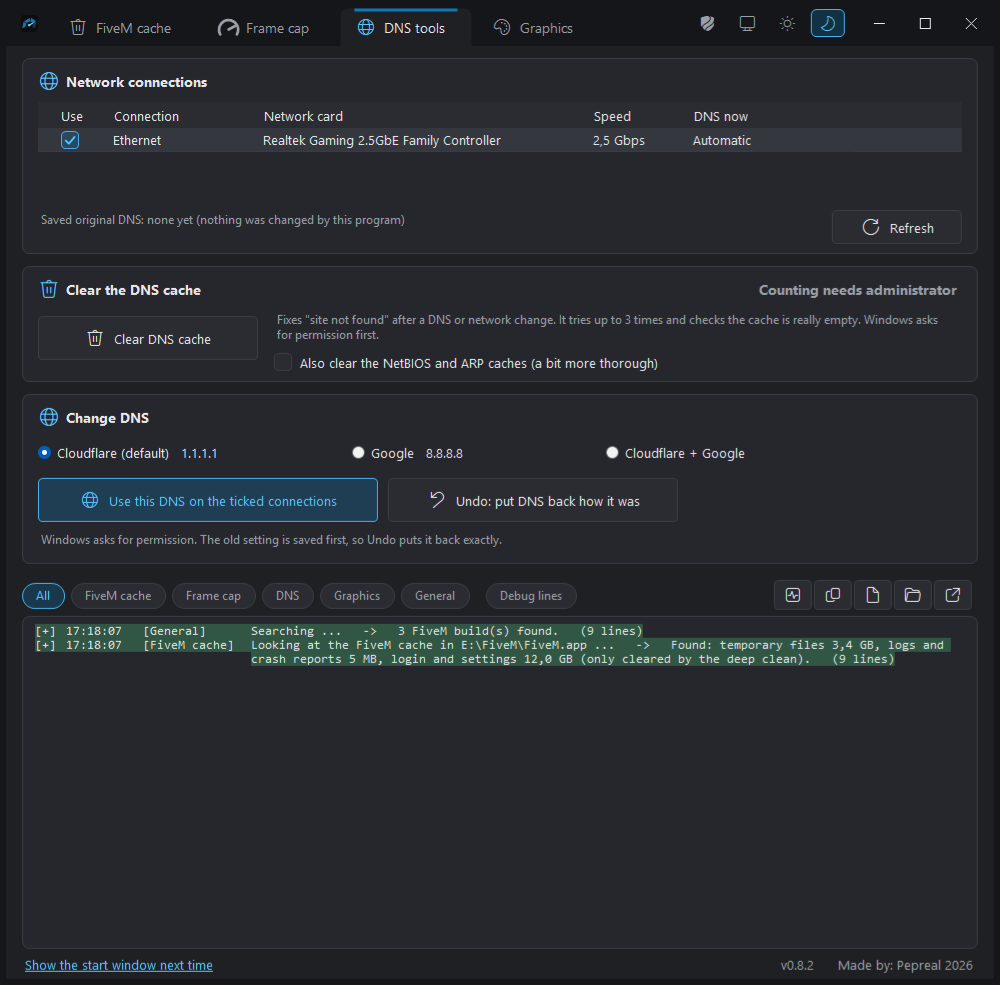
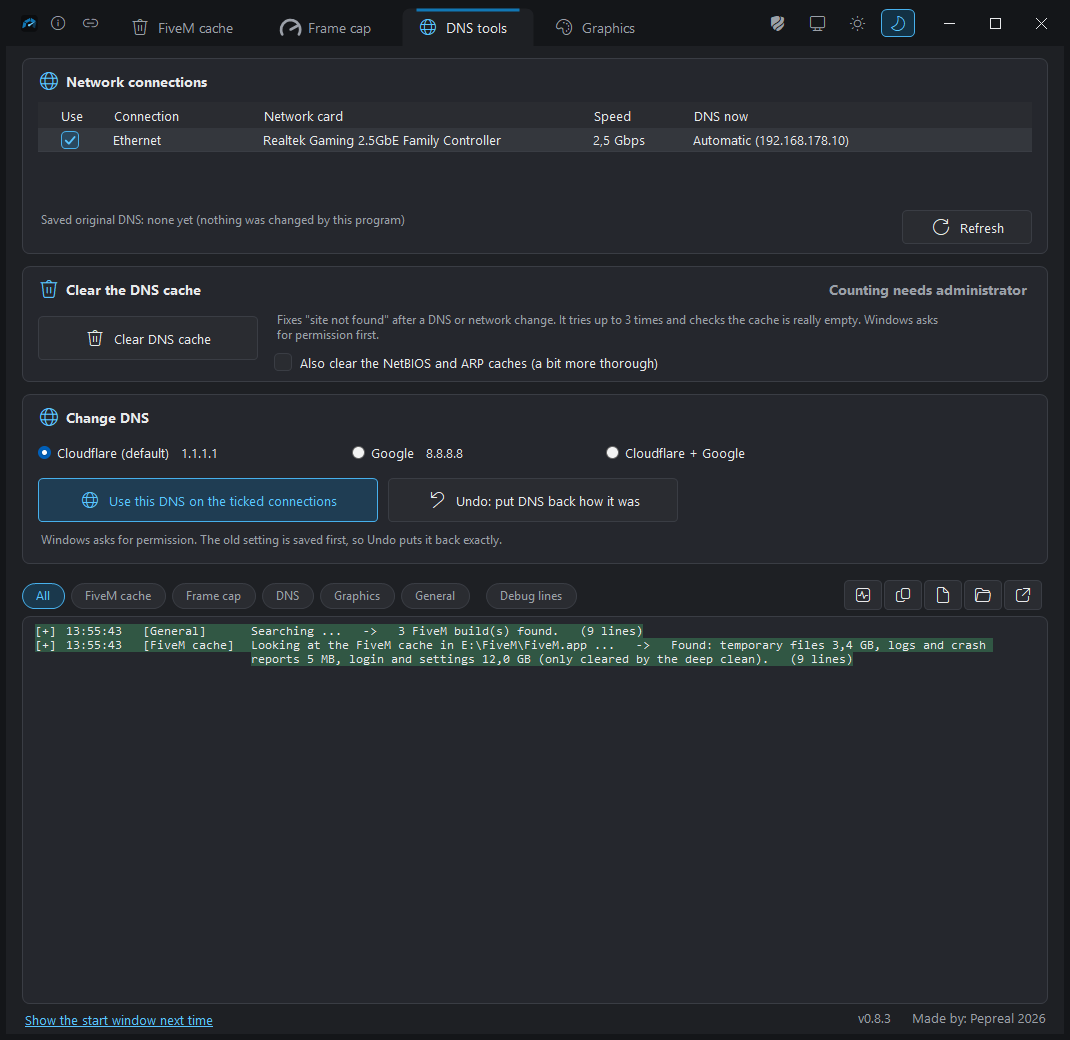
FiveM Toolbox 0.8.3 - title bar buttons, red Reset mode switch, wider window
- Two small buttons next to the program icon: the disclaimer (the welcome window again, only to read) and the GitHub page of the program.
- The "Reset mode" switch is red when it is on.
- The window starts wider (1070 px, never narrower than 1060 px) so the tabs of all five languages fit next to the new buttons.
- Version 0.8.3: also holds the stutter fix warning and the taller window from the commit before.
- README: one sentence about the buttons, four fresh pictures.
- --review-test: 14 more checks (11 planted faults caught).

diff --git a/source/FiveMToolbox.cs b/source/FiveMToolbox.cs
@@ -22,8 +22,8 @@ using Microsoft.Win32;
 [assembly: AssemblyCompany("Pepreal")]
 [assembly: AssemblyCopyright("Copyright (c) 2026 Pepreal. MIT License.")]
 [assembly: AssemblyProduct("FiveM Toolbox")]
-[assembly: AssemblyVersion("0.8.2.0")]
-[assembly: AssemblyFileVersion("0.8.2.0")]
+[assembly: AssemblyVersion("0.8.3.0")]
+[assembly: AssemblyFileVersion("0.8.3.0")]
 [assembly: DefaultDllImportSearchPaths(DllImportSearchPath.System32)]   // every DllImport (AMD, NVIDIA, Windows) loads from the Windows folder only, never from the folder of the exe
 
 namespace FiveMFrameCap
@@ -453,7 +453,7 @@ namespace FiveMFrameCap
             return drawnIcon;
         }
 
-        public const string Version = "0.8.2";
+        public const string Version = "0.8.3";
         public const string AppName = "FiveM Toolbox";
         public const string ExeName = "FiveMToolbox";
         public const string Folder = "FiveMToolbox";
@@ -3185,6 +3185,16 @@ namespace FiveMFrameCap
             border = dark ? Fx.Mix(Fx.Mix(Primary, AccentText, 0.75f), AccentText, hover) : Fx.Mix(Primary, Fx.Mix(Primary, Color.Black, 0.20f), hover);
         }
 
+        // The same outline look in red, for a switch that does something dangerous (the Reset mode switch): a dark red track, a red border, a red knob.
+        public static void DangerOutline(Color behind, float hover, out Color track, out Color border, out Color knob)
+        {
+            bool dark = IsDark;
+            Color lift = dark ? Fx.Mix(Bad, Color.White, 0.25f) : Bad;     // a lighter red for the border and the knob on the dark theme
+            track = Fx.Mix(behind, Bad, (dark ? 0.30f : 0.14f) + hover * (dark ? 0.12f : 0.08f));
+            border = Fx.Mix(lift, dark ? Color.White : Color.Black, hover * 0.15f);
+            knob = dark ? lift : Fx.Mix(Bad, Color.Black, 0.15f);
+        }
+
         public static void TitleBar(Form f)
         {
             try
@@ -5244,6 +5254,7 @@ namespace FiveMFrameCap
     {
         bool on;
         readonly Fader f, hv;
+        public bool Danger = false;     // true: a switch that is on is red, not blue (the Reset mode switch)
         public event EventHandler CheckedChanged;
 
         public ToggleSwitch()
@@ -5280,7 +5291,8 @@ namespace FiveMFrameCap
         {
             Color behind = Parent != null ? Parent.BackColor : Theme.Bg1;
             Color offTrack = Fx.Mix(Theme.Bg4, Theme.Border, 0.5f + 0.3f * hv.Value);
-            Color onFill, onBorder, onKnob; Theme.Outline(behind, hv.Value, false, out onFill, out onBorder, out onKnob);
+            Color onFill, onBorder, onKnob;
+            if (Danger) Theme.DangerOutline(behind, hv.Value, out onFill, out onBorder, out onKnob); else Theme.Outline(behind, hv.Value, false, out onFill, out onBorder, out onKnob);
             track = Fx.Mix(offTrack, onFill, f.Value);
             rim = Fx.Mix(offTrack, onBorder, f.Value);
             knob = Fx.Mix(Theme.Text2, onKnob, f.Value);
@@ -6194,12 +6206,18 @@ namespace FiveMFrameCap
         public string TestCopyText() { return copyLink.Text; }
         public void TestClickCopy() { UpdateCheck.ClickLink(copyLink); }
         public void TestClickUpdate() { UpdateCheck.ClickLink(updateLink); }
+        // for --review-test: the texts of the buttons in the window, and whether the tick box "do not show again" is there
+        public string[] TestButtons() { List<string> r = new List<string>(); foreach (Control c in Body.Controls) if (c is IconButton) r.Add(c.Text); return r.ToArray(); }
+        public bool TestHasDontBox() { return Body.Controls.Contains(dont); }
 
-        public DisclaimerForm() : base(false, false, 40, true)
+        public DisclaimerForm() : this(false) { }
+
+        // infoOnly = opened from the main window to read it again: no tick box, no Quit, one button "Got it", centred on the main window
+        public DisclaimerForm(bool infoOnly) : base(false, false, 40, true)
         {
             Text = Info.AppName;
             Icon = Info.AppIcon();
-            StartPosition = FormStartPosition.CenterScreen;
+            StartPosition = infoOnly ? FormStartPosition.CenterParent : FormStartPosition.CenterScreen;
             Font = new Font("Segoe UI", 9.5f);
             int bodyW = 470;
             Font normal = new Font("Segoe UI", 9f);
@@ -6228,11 +6246,11 @@ namespace FiveMFrameCap
             y = UiUtil.Wrapped(Body, "By continuing you accept these risks. Where it is possible, the old setting is saved or backed up first.", 26, y, bodyW - 52, normal, null, out p2);
             y += 16;
 
-            dont = new ThemedCheckBox(); dont.Text = Loc.T("Do not show this window again"); dont.Left = 26; dont.Top = y; dont.Width = bodyW - 52; dont.Height = 26; Body.Controls.Add(dont); y += 40;
+            dont = new ThemedCheckBox(); dont.Text = Loc.T("Do not show this window again"); dont.Left = 26; dont.Top = y; dont.Width = bodyW - 52; dont.Height = 26; if (!infoOnly) { Body.Controls.Add(dont); y += 40; }
 
-            IconButton ok = new IconButton(); ok.Glyph = Ico.Accept; ok.Text = Loc.T("I understand, continue"); ok.Tag = "primary"; ok.Left = 26; ok.Top = y; ok.Width = 262; ok.Height = 42;
+            IconButton ok = new IconButton(); ok.Glyph = Ico.Accept; ok.Text = Loc.T(infoOnly ? "Got it" : "I understand, continue"); ok.Tag = "primary"; ok.Left = 26; ok.Top = y; ok.Width = infoOnly ? 150 : 262; ok.Height = 42;
             ok.Font = new Font("Segoe UI", 10f, FontStyle.Bold); ok.DialogResult = DialogResult.OK; Body.Controls.Add(ok);
-            IconButton quit = new IconButton(); quit.Glyph = Ico.Cancel; quit.Text = Loc.T("Quit"); quit.Left = 298; quit.Top = y; quit.Width = 120; quit.Height = 42; quit.DialogResult = DialogResult.Cancel; Body.Controls.Add(quit);
+            IconButton quit = new IconButton(); quit.Glyph = Ico.Cancel; quit.Text = Loc.T("Quit"); quit.Left = 298; quit.Top = y; quit.Width = 120; quit.Height = 42; quit.DialogResult = DialogResult.Cancel; if (!infoOnly) Body.Controls.Add(quit);
             y += 42 + 14;
 
             // the copyright line is a link to the page of this program on GitHub
@@ -6246,7 +6264,7 @@ namespace FiveMFrameCap
             Shown += delegate { if (pendingUpdate != null) ShowUpdate(pendingUpdate); };   // the answer came before the window was there
             y += 30;
 
-            AcceptButton = ok; CancelButton = quit;
+            AcceptButton = ok; CancelButton = infoOnly ? (IButtonControl)ok : quit;
             ClientSize = new Size(bodyW + 12, TitleBar.Height + y + 6);
             Theme.Apply(this);
         }
@@ -6399,7 +6417,8 @@ namespace FiveMFrameCap
         NumBox gfxBudget; DropBox gfxPost; Label gfxBudgetNow, gfxPostNow, gfxUiNow, gfxStutterNow, gfxBudgetHint, gfxMeterText; MeterBar gfxMeterBar; bool meterReading; string meterLuid; long meterTotal; VramTracker meterTracker = new VramTracker(); ToggleSwitch gfxUiFix, gfxStutterFix; Label gfxStutterWarn; Card gfxCard, gfxOptCard; IconButton gfxRecommend; int gfxRecN = -1; IconButton gfxApply, gfxClose, gfxHighest, gfxNormal, gfxOpen;
         string cacheMeasuredRoot = null;
         DateTime cacheMeasuredAt = DateTime.MinValue;
-        GlyphButton themeSystem, themeLight, themeDark;
+        GlyphButton themeSystem, themeLight, themeDark, discBtn, gitBtn;
+        Action<DisclaimerForm> disclaimerShow = null;     // a test shows the window itself
         ToolTip tip = new ToolTip();
         Panel pageCap, pageDns, pageCache, pageGfx, footer, statusBar;
         LinkLabel copyLabel;
@@ -6441,6 +6460,8 @@ namespace FiveMFrameCap
         bool readOnlyJob = false;   // the running job only reads (the search): the window may be closed then
         bool inDeepChange = false;
         const int CardW = 950;
+        // the tabs in the title bar start after the language icon and the two small buttons next to it; the window is never narrower than MainMinWidth, so that the tabs of every language end before the buttons on the right
+        public const int TabsLeft = 108, MainMinWidth = 1060, AppearW = 172;
 
         static DataGridView MakeGrid(int left, int top, int width, int height)
         {
@@ -6526,8 +6547,8 @@ namespace FiveMFrameCap
             Text = Info.AppName + " " + Info.Version + (DnsTool.IsAdmin() ? " - " + Loc.T("administrator") : "") + Finder.TestModeText();
             Icon = Info.AppIcon();
             Rectangle wa = Dpi.LogicalWorkArea();
-            Width = Math.Min(1000, wa.Width - 40); Height = Math.Min(1040, wa.Height - 30);
-            MinimumSize = new Size(960, 560);
+            Width = Math.Min(MainMinWidth + 10, wa.Width - 40); Height = Math.Min(1040, wa.Height - 30);
+            MinimumSize = new Size(Math.Min(MainMinWidth, wa.Width), 560);
             StartPosition = FormStartPosition.CenterScreen;
             Font = new Font("Segoe UI", 9.5f);
 
@@ -6535,7 +6556,15 @@ namespace FiveMFrameCap
             ChromeTab[] tabs = new ChromeTab[4];
             tabCap = new ChromeTab("gauge", "Frame cap"); tabDns = new ChromeTab(Ico.Globe, "DNS tools"); tabCache = new ChromeTab(Ico.Delete, "FiveM cache"); tabGfx = new ChromeTab(Ico.Palette, "Graphics");
             tabs[0] = tabCap; tabs[1] = tabDns; tabs[2] = tabCache; tabs[3] = tabGfx;
-            int tx = 46;
+            // next to the program icon (it opens the language menu): the disclaimer, and the GitHub page of the program
+            discBtn = new GlyphButton(Ico.Info); discBtn.Size = new Size(30, 30); discBtn.Left = 38; discBtn.Top = (TitleBar.Height - 30) / 2;
+            discBtn.Click += delegate { ShowDisclaimer(); };
+            tip.SetToolTip(discBtn, Loc.T("Show the disclaimer"));
+            gitBtn = new GlyphButton(Ico.Link); gitBtn.Size = new Size(30, 30); gitBtn.Left = 70; gitBtn.Top = (TitleBar.Height - 30) / 2;
+            gitBtn.Click += delegate { UpdateCheck.Open(UpdateCheck.RepoUrl); };
+            tip.SetToolTip(gitBtn, Loc.T("Open the page of this program on GitHub"));
+            TitleBar.Controls.Add(discBtn); TitleBar.Controls.Add(gitBtn);
+            int tx = TabsLeft;
             foreach (int pick in Info.PageOrder)        // left to right: FiveM cache, Frame cap, DNS tools, Graphics
             {
                 int page = pick;
@@ -6546,7 +6575,7 @@ namespace FiveMFrameCap
             }
 
             // Appearance: three small icons instead of a drop-down
-            Panel appearPanel = new Panel(); appearPanel.Dock = DockStyle.Right; appearPanel.Width = 172; appearPanel.Tag = "frame";
+            Panel appearPanel = new Panel(); appearPanel.Dock = DockStyle.Right; appearPanel.Width = AppearW; appearPanel.Tag = "frame";
             themeSystem = new GlyphButton(Ico.Monitor); themeSystem.Left = 46; themeSystem.Top = 8;
             themeLight = new GlyphButton(Ico.Sun); themeLight.Left = 86; themeLight.Top = 8;
             themeDark = new GlyphButton(Ico.Moon); themeDark.Left = 126; themeDark.Top = 8;
@@ -6583,7 +6612,7 @@ namespace FiveMFrameCap
             logPanel.ReportCopied += delegate { activity.Finish("ok", Loc.T("Report copied"), Loc.T("The whole log is on your clipboard. Paste it in a message. It has file paths and your PC's name in it.")); };
             footer.Controls.Add(logPanel);
             statusBar = new Panel(); statusBar.Dock = DockStyle.Bottom; statusBar.Height = 30; statusBar.Tag = "body";
-            // the credit on the right ("v0.8.2      Made by: Pepreal 2026", like the FiveM Server Manager), the link to the start window on the left
+            // the credit on the right ("v0.8.3      Made by: Pepreal 2026", like the FiveM Server Manager), the link to the start window on the left
             // "Made by: Pepreal 2026" is a link to the GitHub page of the program (grey like the rest, underlined when the mouse is over it); the version in front of it is plain text
             string verPart = "v" + Info.Version + "      ", madePart = Loc.T("Made by:") + " " + Info.Owner + " " + Info.Year;
             copyLabel = new LinkLabel(); copyLabel.Text = verPart + madePart; copyLabel.LinkArea = new LinkArea(verPart.Length, madePart.Length); copyLabel.LinkBehavior = LinkBehavior.HoverUnderline;
@@ -6646,6 +6675,24 @@ namespace FiveMFrameCap
         public void TestClickUpdateNote() { UpdateCheck.ClickLink(updateNote); }
         // "Made by: ..." is a link to the GitHub page, the version in front of it is not
         public void TestClickCredit() { UpdateCheck.ClickLink(copyLabel); }
+        // the two buttons next to the program icon: right edge of the icon, left and right edge of the disclaimer button, left and right edge of the GitHub button, left edge of the first tab, middle height of the icon and of the two buttons
+        public int[] TestTitleButtons()
+        {
+            int firstTab = int.MaxValue; foreach (ChromeTab ct in TabsByPage()) firstTab = Math.Min(firstTab, ct.Left);
+            return new int[] { IconBox.Right, discBtn.Left, discBtn.Right, gitBtn.Left, gitBtn.Right, firstTab, IconBox.Top + IconBox.Height / 2, discBtn.Top + discBtn.Height / 2, gitBtn.Top + gitBtn.Height / 2 };
+        }
+        public string[] TestTitleButtonTips() { return new string[] { tip.GetToolTip(discBtn), tip.GetToolTip(gitBtn) }; }
+        public void TestClickTitle(bool github) { typeof(Control).GetMethod("OnClick", BindingFlags.Instance | BindingFlags.NonPublic).Invoke(github ? gitBtn : discBtn, new object[] { EventArgs.Empty }); }
+        public void TestDisclaimerHook(Action<DisclaimerForm> show) { disclaimerShow = show; }
+
+        // the disclaimer button: the welcome window again, only to read (no tick box, no Quit, one button to close it)
+        void ShowDisclaimer()
+        {
+            using (DisclaimerForm d = new DisclaimerForm(true))
+            {
+                if (disclaimerShow != null) disclaimerShow(d); else d.ShowDialog(this);
+            }
+        }
         public int[] TestCreditLink() { return new int[] { copyLabel.Links.Count, copyLabel.Links[0].Start, copyLabel.Links[0].Length, copyLabel.Text.Length }; }
         // the text of the link, of the notice and of the credit is in the middle of the bar (not at the top)
         public bool TestFooterTextMiddle() { return startLink.TextAlign == ContentAlignment.MiddleLeft && updateNote.TextAlign == ContentAlignment.MiddleRight && copyLabel.TextAlign == ContentAlignment.MiddleRight; }
@@ -7518,7 +7565,7 @@ namespace FiveMFrameCap
             DemoResetMode(false);
             // the footer, also with the notice about a newer version (a pretend version number): the link, the notice and the credit apart, inside the bar, on one height, their text fits
             ShowPage(0);
-            ShowUpdateNote("0.8.2");
+            ShowUpdateNote("0.8.4");
             for (int i = 0; i < 10; i++) { Application.DoEvents(); Thread.Sleep(40); }
             DpiCheck.Container(statusBar, "footer with the notice about a newer version", ck);
             ck(startLink.Right <= updateNote.Left && updateNote.Right <= copyLabel.Left, "footer: the link, the notice and the credit stand in this order and apart (" + startLink.Right + " <= " + updateNote.Left + ", " + updateNote.Right + " <= " + copyLabel.Left + ")");
@@ -7749,7 +7796,7 @@ namespace FiveMFrameCap
             cReset.Controls.Add(wipeDesc = Small("Cleans everything: temporary files, logs, login and saved data, and also your settings folder (key binds, graphics, saved server data). FiveM starts like a new install. A backup of the settings is saved first.", 16, 74, CardW - 32 - wipeW - 20, 52, "muted"));
 
             // the switch: off = a quiet line, on = the red block with the button. It is never saved: every start, and every visit to another tab, puts it off again.
-            resetSwitch = new ToggleSwitch(); resetSwitch.Left = CardW - 16 - 48; resetSwitch.Top = 9; resetSwitch.Anchor = AnchorStyles.Top | AnchorStyles.Right; cReset.Controls.Add(resetSwitch);
+            resetSwitch = new ToggleSwitch(); resetSwitch.Danger = true; resetSwitch.Left = CardW - 16 - 48; resetSwitch.Top = 9; resetSwitch.Anchor = AnchorStyles.Top | AnchorStyles.Right; cReset.Controls.Add(resetSwitch);
             Label resetModeText = new Label(); resetModeText.Text = Loc.T("Reset mode"); resetModeText.Font = new Font("Segoe UI", 9.5f, FontStyle.Bold); resetModeText.AutoSize = false; resetModeText.TextAlign = ContentAlignment.MiddleRight;
             resetModeText.Width = 200; resetModeText.Height = 26; resetModeText.Left = CardW - 16 - 48 - 10 - 200; resetModeText.Top = 9; resetModeText.Anchor = AnchorStyles.Top | AnchorStyles.Right; cReset.Controls.Add(resetModeText);
             resetOffLine = Small("Off. The normal clean and the deep clean never touch your key binds or your graphics settings.", 16, 44, CardW - 32, 34, "muted"); cReset.Controls.Add(resetOffLine);
@@ -7776,6 +7823,7 @@ namespace FiveMFrameCap
         }
 
         public void DemoResetMode(bool on) { resetSwitch.Checked = on; }   // for the test pictures
+        public bool TestResetSwitchDanger() { return resetSwitch.Danger; }
 
         string CurrentRoot() { return cacheRoots.SelectedItem as string; }
 
@@ -8630,6 +8678,8 @@ namespace FiveMFrameCap
             new string[] { "Got it", "Begrepen", "Verstanden", "Compris", "Entendido" },
             // activity card: what is going on and how it ended
             new string[] { "Change the language", "Taal wijzigen", "Sprache ändern", "Changer la langue", "Cambiar el idioma" },
+            new string[] { "Show the disclaimer", "De disclaimer tonen", "Den Haftungsausschluss anzeigen", "Afficher l'avertissement", "Mostrar el aviso legal" },
+            new string[] { "Open the page of this program on GitHub", "De pagina van dit programma op GitHub openen", "Die Seite dieses Programms auf GitHub öffnen", "Ouvrir la page de ce programme sur GitHub", "Abrir la página de este programa en GitHub" },
             new string[] { "Working ...", "Bezig ...", "Wird bearbeitet ...", "En cours ...", "Trabajando ..." },
             new string[] { "Applying the frame cap ...", "De FPS-limiet wordt ingesteld ...", "FPS-Limit wird angewendet ...", "Application de la limite de FPS ...", "Aplicando el límite de FPS ..." },
             new string[] { "Asking AMD what is set now ...", "AMD wordt gevraagd wat er nu is ingesteld ...", "AMD wird gefragt, was jetzt eingestellt ist ...", "Demande à AMD ce qui est réglé actuellement ...", "Preguntando a AMD qué hay configurado ahora ..." },
@@ -10984,6 +11034,33 @@ namespace FiveMFrameCap
                     rck(opened.Count == 1 && opened[0] == "https://github.com/Pepreal/FiveM-Toolbox", "a click on \"Made by: ...\" in the main window opens the GitHub page of the program (" + string.Join(",", opened.ToArray()) + ")");
                     opened.Clear(); mu.TestClickUpdateNote();
                     rck(opened.Count == 1 && opened[0] == "https://github.com/Pepreal/FiveM-Toolbox/releases", "a click on the notice in the main window opens the releases page");
+                    // the two buttons next to the program icon (top left): the disclaimer and the GitHub page
+                    int[] tb = mu.TestTitleButtons();
+                    rck(tb[0] <= tb[1] && tb[1] < tb[2] && tb[2] <= tb[3] && tb[3] < tb[4] && tb[4] <= tb[5], "title bar from the left: program icon, disclaimer button, GitHub button, the first tab, none over another (" + string.Join(",", Array.ConvertAll(tb, delegate(int v) { return v.ToString(); })) + ")");
+                    rck(Math.Abs(tb[6] - tb[7]) <= 1 && Math.Abs(tb[6] - tb[8]) <= 1, "the icon and the two buttons are on the same height (" + tb[6] + ", " + tb[7] + ", " + tb[8] + ")");
+                    string[] tbt = mu.TestTitleButtonTips();
+                    rck(tbt[0] == "Show the disclaimer" && tbt[1] == "Open the page of this program on GitHub", "the two buttons have a tool tip (" + tbt[0] + " | " + tbt[1] + ")");
+                    opened.Clear(); mu.TestClickTitle(true);
+                    rck(opened.Count == 1 && opened[0] == "https://github.com/Pepreal/FiveM-Toolbox", "the GitHub button opens the GitHub page of the program (" + string.Join(",", opened.ToArray()) + ")");
+                    string[] shownBtns = null; bool shownDont = true; bool shownParent = false;
+                    mu.TestDisclaimerHook(delegate(DisclaimerForm dd) { shownBtns = dd.TestButtons(); shownDont = dd.TestHasDontBox(); shownParent = dd.StartPosition == FormStartPosition.CenterParent; dd.Show(); rpump(); });
+                    mu.TestClickTitle(false);
+                    rck(shownBtns != null && string.Join("|", shownBtns) == "Got it" && !shownDont && shownParent, "the disclaimer button opens the welcome window to read: one button \"Got it\", no tick box, no Quit, centred on the main window (" + (shownBtns == null ? "nothing shown" : string.Join("|", shownBtns)) + ")");
+                    using (DisclaimerForm dstart = new DisclaimerForm())
+                        rck(string.Join("|", dstart.TestButtons()) == "I understand, continue|Quit" && dstart.TestHasDontBox(), "the welcome window at the start is as before: the tick box, \"I understand, continue\" and Quit (" + string.Join("|", dstart.TestButtons()) + ")");
+                    // the tabs of every language end before the buttons on the right, also in a window of the smallest size
+                    string[] tabNames = new string[] { "Frame cap", "DNS tools", "FiveM cache", "Graphics" };
+                    int worst = 0; string worstLang = "";
+                    foreach (string lg in new string[] { "en", "nl", "de", "fr", "es" })
+                    {
+                        Loc.Force(lg); int need = MainForm.TabsLeft;
+                        foreach (string tn in tabNames) using (ChromeTab ctt = new ChromeTab("", tn)) need += ctt.Width + 4;
+                        need += MainForm.AppearW + 3 * 46 + 12 + 16;     // the panel and the three window buttons on the right, the two window borders, and 16 px of air
+                        if (need > worst) { worst = need; worstLang = lg; }
+                    }
+                    Loc.Force("en");
+                    rck(worst <= MainForm.MainMinWidth, "the smallest window (" + MainForm.MainMinWidth + " px) holds the tabs of every language and the buttons on the right: the widest is \"" + worstLang + "\" and needs " + worst + " px");
+                    rck(mu.TestResetSwitchDanger(), "the Reset mode switch is the red kind (it is on only for the most extreme clean)");
                     mu.Close();
                     using (DisclaimerForm dsh = new DisclaimerForm()) { dsh.StartUpdateCheck(); Thread.Sleep(300); }
                     rck(asked == 1, "GitHub is asked once for each run, also when the welcome window and the main window both ask (asked " + asked + " times)");
@@ -11094,6 +11171,14 @@ namespace FiveMFrameCap
                         ToggleSwitch tsOff = new ToggleSwitch();
                         Color tfTrack, tfRim, tfKnob; tsOff.SwitchColors(out tfTrack, out tfRim, out tfKnob);
                         rck(tfTrack != tsTrack && tfKnob == Theme.Text2 && tfRim == tfTrack, themeName + ": a switch that is off is grey with a grey knob and no blue rim");
+                        ToggleSwitch tsRed = new ToggleSwitch(); tsRed.Danger = true; tsRed.Checked = true;
+                        Color rdTrack, rdRim, rdKnob; tsRed.SwitchColors(out rdTrack, out rdRim, out rdKnob);
+                        Func<Color, bool> isRed = delegate(Color c) { return c.R - Math.Max(c.G, c.B) >= 15; };
+                        rck(isRed(rdTrack) && isRed(rdRim) && isRed(rdKnob) && rdTrack != tsTrack && rdKnob != tsKnob, themeName + ": a red switch that is on has a red track, rim and knob (track " + rdTrack.Name + ", rim " + rdRim.Name + ", knob " + rdKnob.Name + ")");
+                        rck(contrast(rdKnob, rdTrack) >= 2.0 && contrast(rdRim, rdTrack) >= 1.5, themeName + ": the red knob and rim show on the red track (contrast " + contrast(rdKnob, rdTrack).ToString("0.0", System.Globalization.CultureInfo.InvariantCulture) + " and " + contrast(rdRim, rdTrack).ToString("0.0", System.Globalization.CultureInfo.InvariantCulture) + ")");
+                        ToggleSwitch tsRedOff = new ToggleSwitch(); tsRedOff.Danger = true;
+                        Color roTrack, roRim, roKnob; tsRedOff.SwitchColors(out roTrack, out roRim, out roKnob);
+                        rck(roTrack == tfTrack && roRim == tfRim && roKnob == tfKnob, themeName + ": a red switch that is off is as grey as every other switch that is off");
                         ThemedCheckBox cbOn = new ThemedCheckBox(); cbOn.Checked = true;
                         Color cbF, cbB, cbM; cbOn.CheckColors(out cbF, out cbB, out cbM);
                         rck(cbF == pbBack && cbB == pbBorder && cbM == pbFore, themeName + ": a tick box that is ticked has the same colours as the blue button (fill " + cbF.Name + ", tick " + cbM.Name + ")");
@@ -11296,7 +11381,7 @@ namespace FiveMFrameCap
                     DisclaimerForm dnu = new DisclaimerForm();
                     dnu.Show();
                     for (int i = 0; i < 14; i++) { Application.DoEvents(); Thread.Sleep(40); }
-                    dnu.ShowUpdate("0.8.2");
+                    dnu.ShowUpdate("0.8.4");
                     for (int i = 0; i < 14; i++) { Application.DoEvents(); Thread.Sleep(40); }
                     DpiCheck.Dialog(dnu, "welcome window with the notice about a newer version", dck);
                     dnu.Close();
@@ -11327,7 +11412,7 @@ namespace FiveMFrameCap
                     }
                 }
                 f.ShowPage(0);
-                f.ShowUpdateNote("0.8.2");   // a pretend version number: GitHub is not asked
+                f.ShowUpdateNote("0.8.4");   // a pretend version number: GitHub is not asked
                 for (int i = 0; i < 12; i++) { Application.DoEvents(); Thread.Sleep(50); }
                 using (Bitmap bmpU = new Bitmap(f.Width, f.Height))
                 {
@@ -11401,12 +11486,23 @@ namespace FiveMFrameCap
                 {
                     wu.Show();
                     for (int i = 0; i < 10; i++) { Application.DoEvents(); Thread.Sleep(50); }
-                    wu.ShowUpdate("0.8.2");
+                    wu.ShowUpdate("0.8.4");
                     for (int i = 0; i < 10; i++) { Application.DoEvents(); Thread.Sleep(50); }
                     using (Bitmap bmp4 = new Bitmap(wu.Width, wu.Height))
                     {
                         Snap(wu, bmp4);
                         bmp4.Save(args[1].Replace(".png", "-welcome-update.png"), System.Drawing.Imaging.ImageFormat.Png);
+                    }
+                }
+                // the welcome window as the disclaimer button of the main window shows it (to read: no tick box, no Quit)
+                using (DisclaimerForm wi = new DisclaimerForm(true))
+                {
+                    wi.Show();
+                    for (int i = 0; i < 10; i++) { Application.DoEvents(); Thread.Sleep(50); }
+                    using (Bitmap bmp5 = new Bitmap(wi.Width, wi.Height))
+                    {
+                        Snap(wi, bmp5);
+                        bmp5.Save(args[1].Replace(".png", "-welcome-info.png"), System.Drawing.Imaging.ImageFormat.Png);
                     }
                 }
                 f.Close();

diff --git a/CHANGELOG.md b/CHANGELOG.md
@@ -5,13 +5,19 @@ Tags: NEW, CHANGED, FIXED.
 
 ---
 
-## Unreleased
+## v0.8.3 - 2026-11-14 (latest)
+
+**NEW** - **Two small buttons next to the program icon (top left).** *The first one shows the disclaimer again: the welcome window, only to read (no tick box, no Quit, one "Got it" button). The second one opens the GitHub page of the program. The icon itself still opens the language menu.*
+
+**CHANGED** - **The "Reset mode" switch is red when it is on.** *Reset is the most extreme clean, so its switch is red (a dark red track with a red border and a red knob) and not blue like the other switches. Off, it is grey like every other switch.*
+
+**CHANGED** - **The window starts wider (1070 px) and cannot be made narrower than 1060 px.** *The two new buttons take some room in the title bar. 1060 px is enough for the tabs of all five languages (French is the widest).*
 
 **NEW** - **A small orange warning under "Fix stutter at high frame rates".** *For a few players this switch made the stutter worse, not better. FiveM has the audio frame limiter on by default, and this switch turns it off. The warning says so, and tells you to switch the fix off again if that happens. The "Fix interface lag" switch gets no warning. The text is in all five languages.*
 
 **CHANGED** - **The window starts a little taller (1040 px, or as high as the screen allows).** *The warning makes the Graphics tab a few lines longer. The taller window keeps the whole tab on screen without a scroll bar.*
 
-## v0.8.2 - 2026-11-14 (latest)
+## v0.8.2 - 2026-11-14
 
 **CHANGED** - **"Made by: Pepreal 2026" in the main window is a link to the GitHub page of the program.** *A click opens the page. It looks the same as before (grey) and it is underlined when the mouse is over it. The version in front of it is plain text. The notice about a newer version stays an orange line next to the version.*
 

diff --git a/README.md b/README.md
@@ -51,7 +51,7 @@ Reads FiveM's settings files and changes one line at a time. FiveM must be close
 - **Post FX** (`gta5_settings.xml`): set it to Normal for MLOs and cars that look far too bright.
 - **Two game options** from FiveM's own Settings menu: "Fix interface lag" (`nui_useInProcessGpu`) and "Fix stutter at high frame rates" (the Audio frame limiter off, `game_useAudioFrameLimiter`). FiveM itself warns that the first one may cause GPU crashes. For a few players the second one made the stutter worse, so the Toolbox shows a small warning under it. The Graphics tab is for FiveM with the GTA V Legacy edition.
 
-The window is in English, Dutch, German, French and Spanish. It follows the Windows language. To force a language, put a line like `language=nl` (or `de`, `fr`, `es`, `en`) in `settings.txt` in `%LOCALAPPDATA%\FiveMToolbox`.
+The window is in English, Dutch, German, French and Spanish. It follows the Windows language. To force a language, put a line like `language=nl` (or `de`, `fr`, `es`, `en`) in `settings.txt` in `%LOCALAPPDATA%\FiveMToolbox`. You can also click the program icon at the top left to pick a language. The two small buttons next to it show the disclaimer again and open this GitHub page.
 
 ## Download
 
